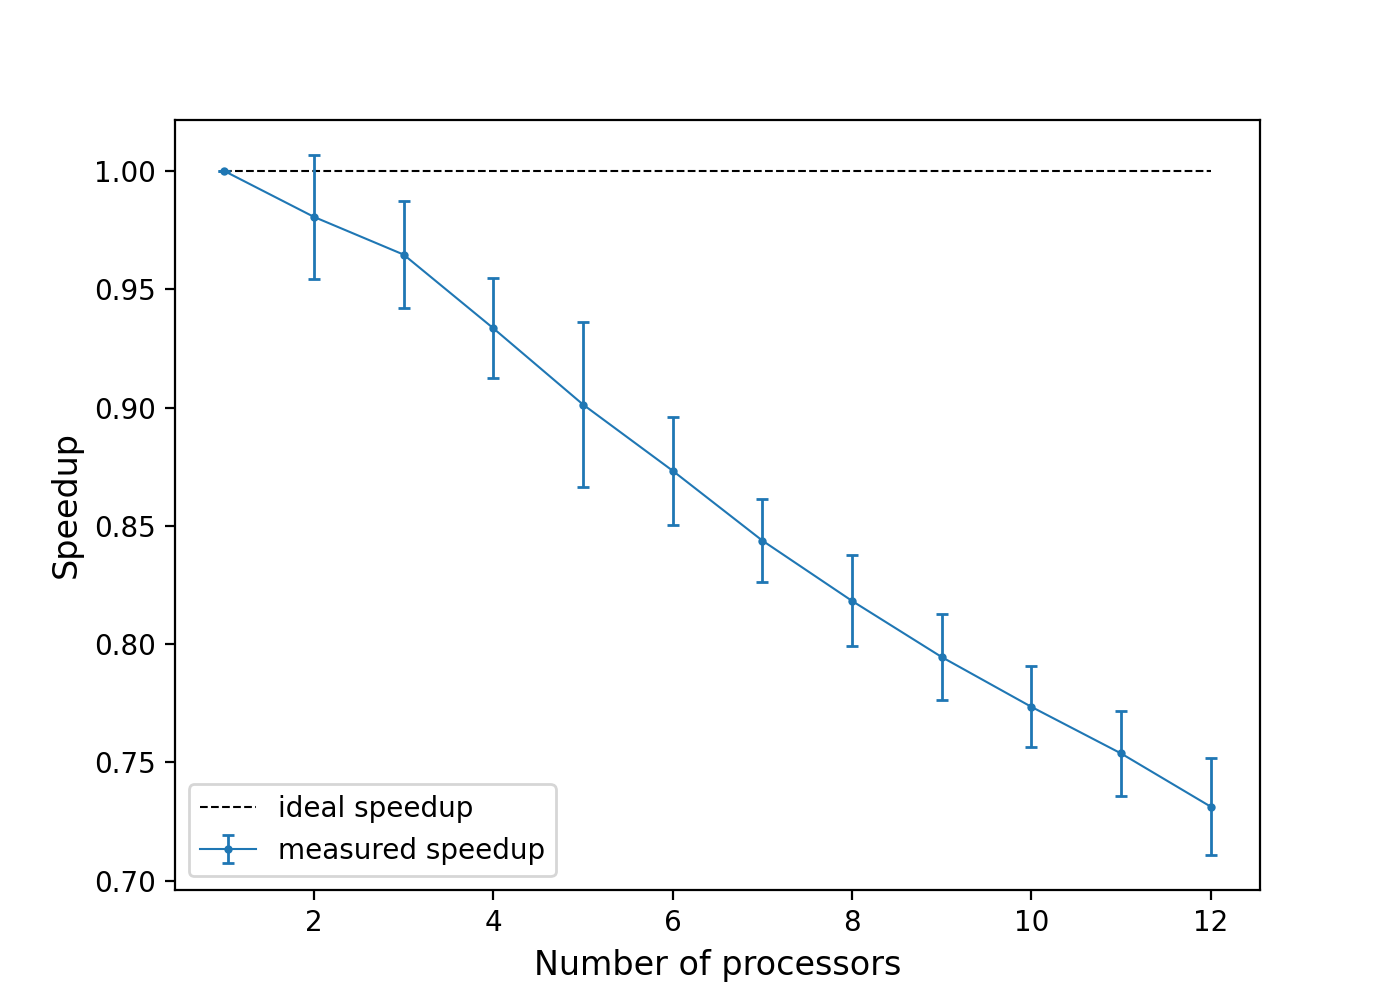
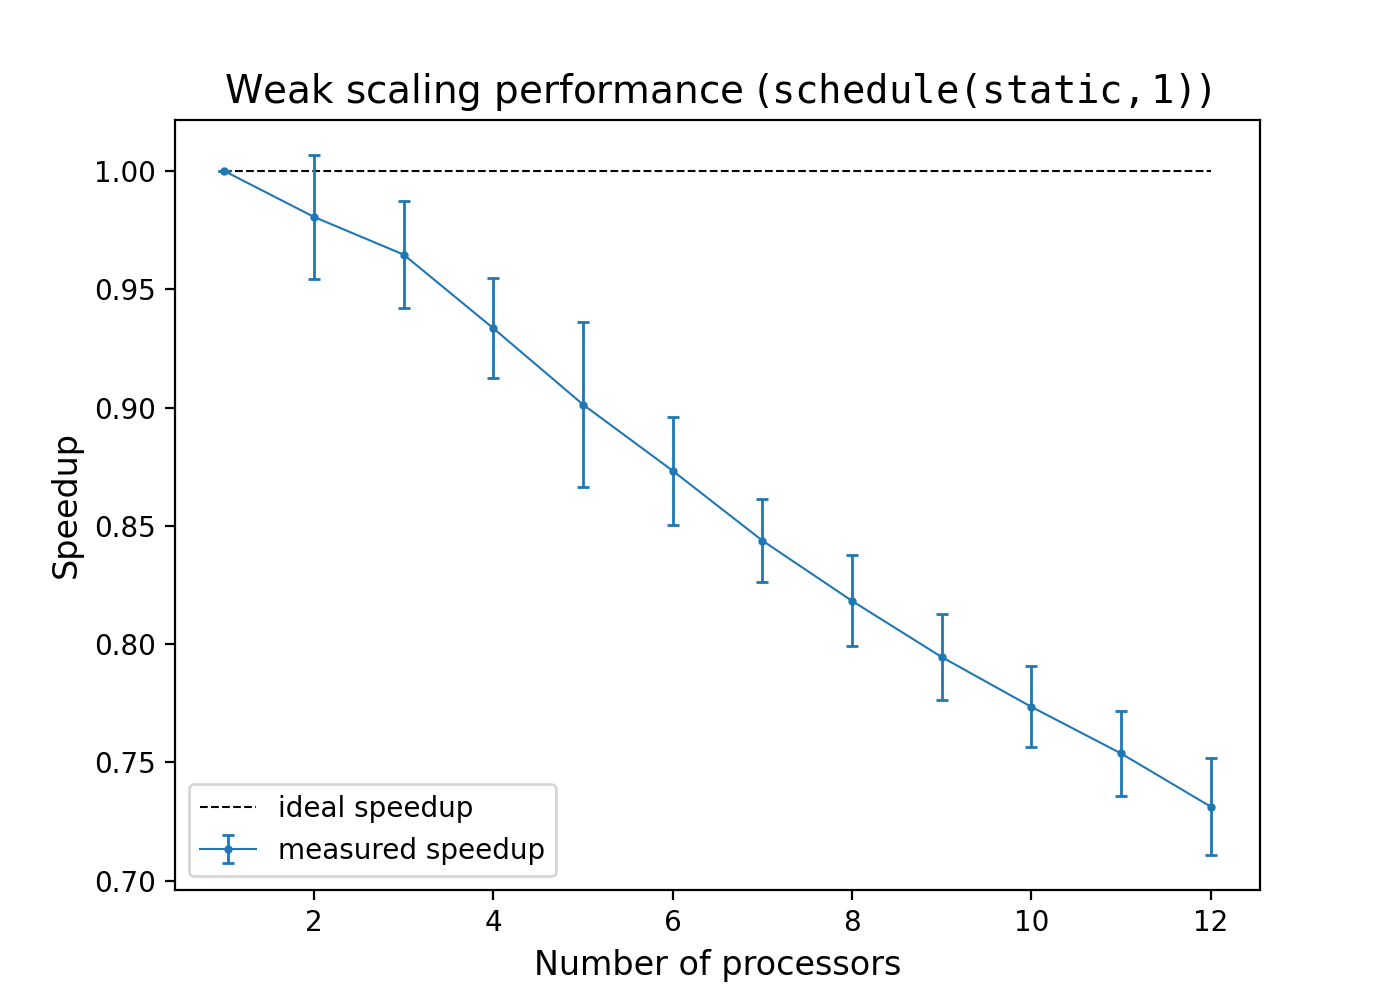
updated figures

Changed region(s): [[0.1536, 0.062, 0.7986, 0.124], [0.8293, 0.062, 0.86, 0.124]]

diff --git a/project/plot_scaling_prf.py b/project/plot_scaling_prf.py
@@ -10,11 +10,10 @@ parser . add_argument ( "-f" , "--file"    , required = True )
 args = parser.parse_args()
 
 filename = args.file.split("/")[-1] if ("/" in args.file) else args.file
-img_name = f"./img/t_exec_{filename[:-4]}.png"
 
 ext = filename.split(".")[-1]
 if (ext != "csv"):
-  raise ValueError (f"The execution times should be passes as CSV file, instead {args.file} passed.")
+  raise ValueError (f"The elapsed times should be passes as CSV file, instead {args.file} passed.")
 
 if (args.scaling == "strong"):
   title = "Strong scaling performance"
@@ -23,15 +22,15 @@ else:
   title = "Weak scaling performance"
   loc_1 = "upper left" ; loc_2 = "lower left"
 
-if ("static" in img_name) or ("dynamic" in img_name):
-  text = img_name[:-4].split("_")[-1]
+if ("static" in filename) or ("dynamic" in filename):
+  text = filename[:-4].split("_")[-1]
   text = text.split("c")
   title += " ($\mathtt{schedule(%sc,%s)}$)" % (text[0], text[1])
 
 df = pd.read_csv (args.file, index_col = 0)
 processors = df.values[:,0]
 
-## Execution time study
+## Elapsed time study
 t_mean = np.mean (df.values[:,3:], axis = 1)
 t_errs = np.std  (df.values[:,3:], axis = 1)
 t_ideal = t_mean[0] / processors if (args.scaling == "strong") else t_mean[0] * np.ones_like(t_mean)
@@ -39,17 +38,18 @@ t_ideal = t_mean[0] / processors if (args.scaling == "strong") else t_mean[0] * 
 fig, ax = plt.subplots ( figsize = (7,5), dpi = 200 )
 ax.set_title  ( title, fontsize = 14 )
 ax.set_xlabel ( "Number of processors", fontsize = 12 )
-ax.set_ylabel ( "Execution time [s]", fontsize = 12 )
+ax.set_ylabel ( "Elapsed time [s]", fontsize = 12 )
 ax.plot ( processors, t_ideal, color = "black", ls = "--", 
-          lw = 0.75, label = "ideal execution time", zorder = 0 )
+          lw = 0.75, label = "ideal Elapsed time", zorder = 0 )
 ax.errorbar ( processors, t_mean, yerr = t_errs, marker = "o", markersize = 2, capsize = 2, 
-              elinewidth = 1, lw = 0.75, label = "measured execution time", zorder = 1 )
+              elinewidth = 1, lw = 0.75, label = "measured Elapsed time", zorder = 1 )
 if (args.scaling == "strong"): ax.set_yscale ( "log" )
 ax.legend ( loc = loc_1, fontsize = 10 )
+img_name = f"./img/time_{filename[:-4]}.png"
 plt.savefig (img_name)
 plt.show()
 
-print ( f"Execution time plot correctly exported to {img_name}" )
+print ( f"Elapsed time plot correctly exported to {img_name}" )
 
 ## Speedup study
 speedup = t_mean[0] / t_mean
@@ -64,7 +64,7 @@ ax.plot ( processors, speedup_ideal, color = "black", ls = "--",
           lw = 0.75, label = "ideal speedup", zorder = 0 )
 ax.errorbar ( processors, speedup, yerr = speedup_errs, marker = "o", markersize = 2, 
               capsize = 2, elinewidth = 1, lw = 0.75, label = "measured speedup", zorder = 1 )
-ax.legend ( loc = "upper left", fontsize = 10 )
+ax.legend ( loc = loc_2, fontsize = 10 )
 img_name = f"./img/speedup_{filename[:-4]}.png"
 plt.savefig (img_name)
 plt.show()

diff --git a/project/plot_scheduling_prf.py b/project/plot_scheduling_prf.py
@@ -6,7 +6,7 @@ import matplotlib.pyplot as plt
 
 from argparse import ArgumentParser
 
-avail_threads = [ f"{i}" for i in range(mp.cpu_count()) ]   # list of available threads
+avail_threads = [ f"{i+1}" for i in range(mp.cpu_count()) ]   # list of available threads
 
 parser = ArgumentParser()
 parser . add_argument ( "-f" , "--file"        , default = None )
@@ -19,11 +19,11 @@ dfs = list()   # list of DataFrames
 if (args.file is not None):
 
   filename = args.file.split("/")[-1] if ("/" in args.file) else args.file
-  img_name = f"./img/t_exec_{filename[:-4]}.png"
+  img_name = f"./img/time_{filename[:-4]}.png"
 
   ext = filename.split(".")[-1]
   if (ext != "csv"): 
-    raise ValueError (f"The execution times should be passes as CSV file, instead {args.file} passed.")
+    raise ValueError (f"The elapsed times should be passes as CSV file, instead {args.file} passed.")
   
   dfs . append ( pd.read_csv (args.file, index_col = 0) )
   labels = [ None ]
@@ -31,7 +31,7 @@ if (args.file is not None):
 else:
 
   if (args.scheduling is not None) and (args.num_threads is not None):
-    img_name = f"./img/t_exec_psVSpsc_{args.num_threads}threads_{args.scheduling}.png"
+    img_name = f"./img/time_psVSpsc_{args.num_threads}threads_{args.scheduling}.png"
 
     for vrs in ["ps", "psc"]:
       file = f"./data/times/{vrs}_{args.num_threads}threads_{args.scheduling}.csv"
@@ -41,7 +41,9 @@ else:
     labels = [ "only inner loop parallelized", "$\mathtt{collapse(2)}$ directive used" ]
 
   else:
-    raise ValueError ("mò ci penso")   # TODO add error message
+    raise ValueError ( f"You should decide if passing a file ('-f') obtaining the relative "
+                       f"performance plot, OR passing both the scheduling type ('-s') and "
+                       f"the number of threads ('-n') to obtaine the comparison plot." )
 
 if ("static" in img_name):
   title = "Static scheduling performance"
@@ -56,7 +58,7 @@ if title:
     text = text.split("t")
     title += f" ({text[0]} t{text[1]})"
 
-## Execution time plot
+## Elapsed time plot
 fig, ax = plt.subplots ( figsize = (7,5), dpi = 200 )
 
 for i, (df, label) in enumerate ( zip(dfs, labels) ):
@@ -66,7 +68,7 @@ for i, (df, label) in enumerate ( zip(dfs, labels) ):
 
   ax.set_title  ( f"{title}", fontsize = 14 )
   ax.set_xlabel ( "Scheduling chunksize", fontsize = 12 )
-  ax.set_ylabel ( "Execution time [s]", fontsize = 12 )
+  ax.set_ylabel ( "Elapsed time [s]", fontsize = 12 )
   ax.errorbar ( chunksize, t_mean, yerr = t_errs, marker = "o", markersize = 2, 
                 capsize = 2, elinewidth = 1, lw = 0.75, label = label, zorder = i )
   ax.set_xscale ( "log" )
@@ -76,4 +78,4 @@ if (args.file is None): plt.legend ( loc = "upper left", fontsize = 10 )
 plt.savefig (img_name)
 plt.show()
 
-print ( f"Execution time plot correctly exported to {img_name}" )
+print ( f"Elapsed time plot correctly exported to {img_name}" )
